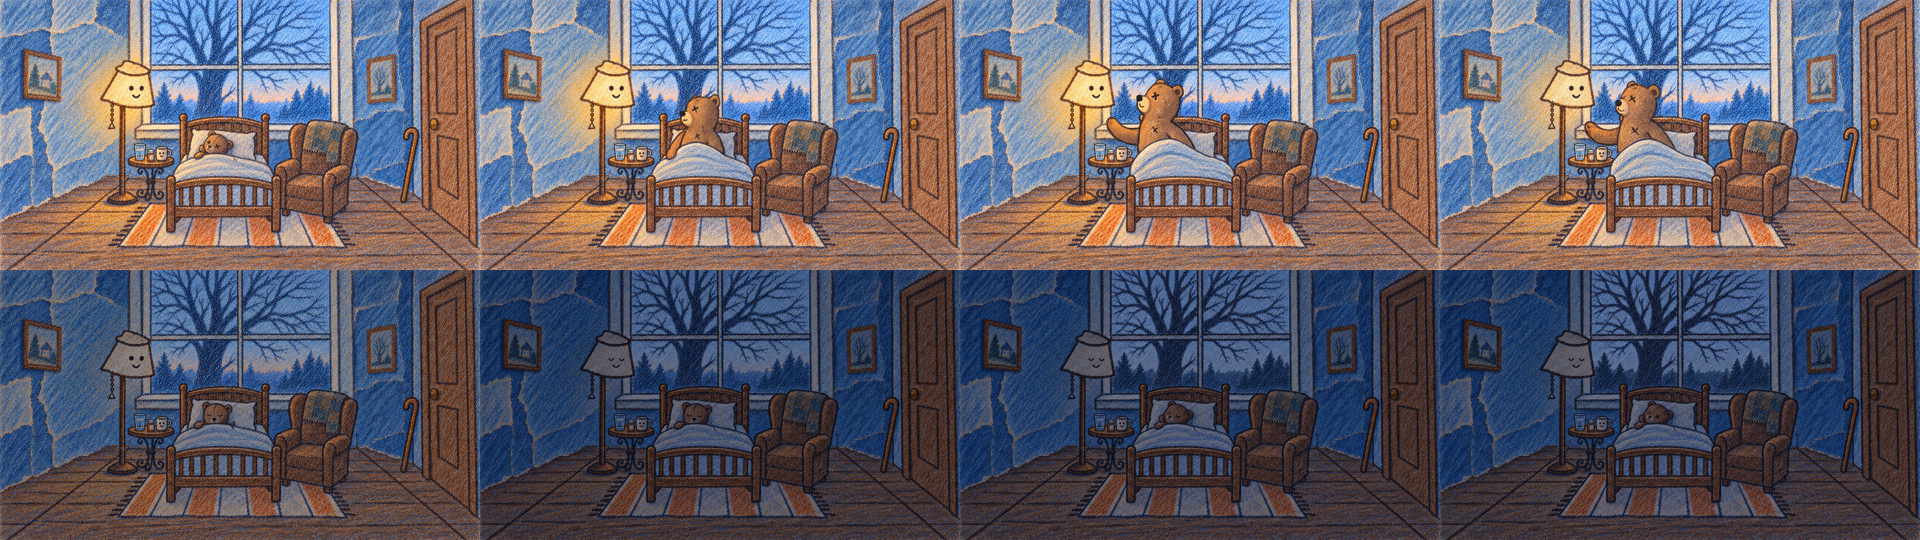
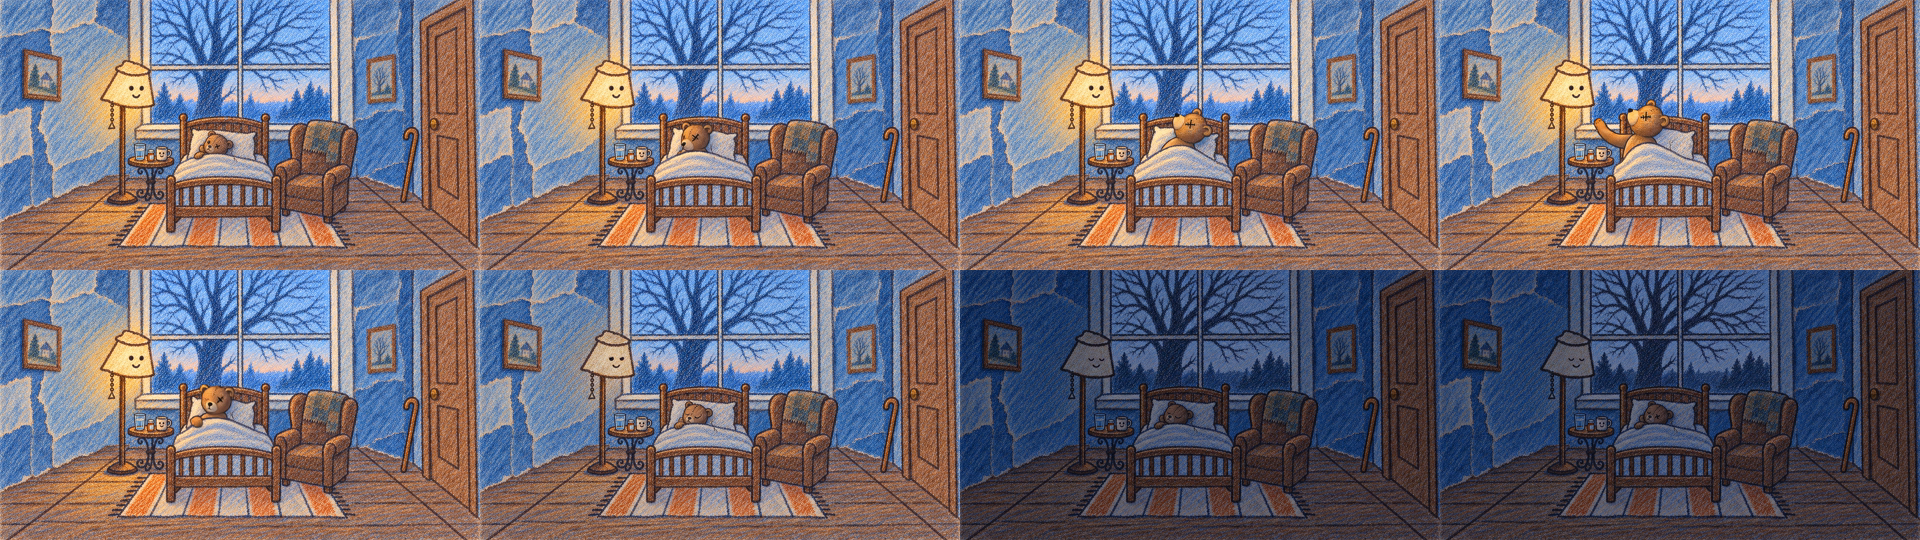
Revision brief v4 and stage specs v4

diff --git a/scripts/assemble_glued.py b/scripts/assemble_glued.py
@@ -1,0 +1,42 @@
+#!/usr/bin/env python3
+"""Join section clips into one 52 s track with glue. usage: assemble_glued.py DIR TAKE PAD.mp3 OUT.wav
+Glue: equal-power crossfades centred on each cut, a reverb tail from each outgoing clip that rings into the next section, one quiet continuous pad underneath."""
+import subprocess, sys, numpy as np, wave
+D,T,PAD,OUT=sys.argv[1:5]; SR=44100; rng=np.random.default_rng(7)
+B=[0,6,14,20,28,34,40,46,52]
+TARGET=[-26,-19,-19,-27,-15,-22,-26,-21]
+X=1.0; PADDB=-31; TAILDB=-7; RT=2.2
+def load(p):
+    r=subprocess.run(['ffmpeg','-v','error','-i',p,'-f','f32le','-ac','2','-ar',str(SR),'-'],capture_output=True,check=True).stdout
+    return np.frombuffer(r,dtype=np.float32).reshape(-1,2)
+def rms(c): return 20*np.log10(np.sqrt((c**2).mean())+1e-9)
+# reverb impulse: decaying noise, darkened
+n=int(RT*SR); t=np.arange(n)/SR
+ir=np.stack([rng.standard_normal(n)*np.exp(-t*6.9/RT) for _ in range(2)],1)
+for ch in range(2):
+    k=np.ones(8)/8; ir[:,ch]=np.convolve(ir[:,ch],k,'same')
+ir/=np.abs(ir).sum(0).max()
+def reverb(x):
+    L=len(x)+len(ir); N=1<<(L-1).bit_length()
+    return np.stack([np.fft.irfft(np.fft.rfft(x[:,c],N)*np.fft.rfft(ir[:,c],N),N)[:L] for c in range(2)],1).astype(np.float32)
+out=np.zeros((int((52+RT)*SR),2),dtype=np.float32)
+for i in range(8):
+    c=load(f'{D}/s{i+1}_{T}.mp3')
+    a=B[i]-(X/2 if i>0 else 0); b=B[i+1]+(X/2 if i<7 else 0)
+    c=c[:int((b-a)*SR)]; c=c*10**((TARGET[i]-rms(c))/20)
+    k=int(X*SR); env=np.ones(len(c),dtype=np.float32)
+    if i>0: env[:k]=np.sin(np.linspace(0,np.pi/2,k))
+    if i<7: env[-k:]=np.minimum(env[-k:],np.cos(np.linspace(0,np.pi/2,k)))
+    s=int(a*SR); out[s:s+len(c)]+=c*env[:,None]
+    if i<7:  # reverb tail of the outgoing clip's last 1.2 s rings on into the next section
+        seg=c[-int(1.2*SR):]*np.cos(np.linspace(0,np.pi/2,int(1.2*SR)))[:,None]
+        tail=reverb(seg); tail*=10**((rms(seg)+TAILDB-rms(tail))/20)
+        tail*=np.concatenate([np.ones(int(.2*SR)),np.cos(np.linspace(0,np.pi/2,len(tail)-int(.2*SR)))])[:,None]**2
+        e=s+len(c)-int(1.2*SR); out[e:e+len(tail)]+=tail[:len(out)-e]
+pad=load(PAD)[:int(52*SR)]; pad=pad*10**((PADDB-rms(pad))/20)
+fi=int(2*SR); pad[:fi]*=np.linspace(0,1,fi)[:,None]
+out[:len(pad)]+=pad
+out=out[:int(52*SR)]
+out/=max(1,np.abs(out).max()/0.95)
+w=wave.open(OUT,'wb');w.setnchannels(2);w.setsampwidth(2);w.setframerate(SR);w.writeframes((out*32767).astype('<i2').tobytes());w.close()
+print('wrote',OUT,len(out)/SR,'s')

diff --git a/scripts/assemble_sections.py b/scripts/assemble_sections.py
@@ -1,0 +1,23 @@
+#!/usr/bin/env python3
+"""Join per-section music clips into one 52 s track. usage: assemble_sections.py DIR TAKE OUT.wav  (clips DIR/s1_TAKE.mp3..s8)"""
+import subprocess, sys, numpy as np, wave
+D,T,OUT=sys.argv[1:4]; SR=44100
+B=[0,6,14,20,28,34,40,46,52]
+TARGET=[-26,-19,-19,-27,-15,-22,-26,-21]   # RMS dB per section: story arc
+X=1.0                                       # crossfade seconds, centred on each cut
+def load(p):
+    r=subprocess.run(['ffmpeg','-v','error','-i',p,'-f','f32le','-ac','2','-ar',str(SR),'-'],capture_output=True,check=True).stdout
+    return np.frombuffer(r,dtype=np.float32).reshape(-1,2)
+out=np.zeros((int(52*SR),2),dtype=np.float32)
+for i in range(8):
+    c=load(f'{D}/s{i+1}_{T}.mp3')
+    a=B[i]-(X/2 if i>0 else 0); b=B[i+1]+(X/2 if i<7 else 0)
+    n=int((b-a)*SR); c=c[:n]
+    rms=20*np.log10(np.sqrt((c**2).mean())+1e-9); c=c*10**((TARGET[i]-rms)/20)
+    env=np.ones(len(c),dtype=np.float32); k=int(X*SR)
+    if i>0: env[:k]=np.linspace(0,1,k)
+    if i<7: env[-k:]=np.minimum(env[-k:],np.linspace(1,0,k))
+    s=int(a*SR); out[s:s+len(c)]+=c*env[:,None]
+out/=max(1,np.abs(out).max()/0.95)
+w=wave.open(OUT,'wb');w.setnchannels(2);w.setsampwidth(2);w.setframerate(SR);w.writeframes((out*32767).astype('<i2').tobytes());w.close()
+print('wrote',OUT,len(out)/SR,'s')

diff --git a/scripts/el_music_plan.py b/scripts/el_music_plan.py
@@ -1,0 +1,9 @@
+#!/usr/bin/env python3
+"""ElevenLabs music from any composition plan. usage: el_music_plan.py PLAN.json OUT.mp3 [seed]. Key from .env.local, never printed."""
+import json, sys, urllib.request, urllib.error
+key=[l.split('=',1)[1].strip() for l in open('.env.local') if l.startswith('ELEVENLABS_API_KEY=')][0]
+body={'composition_plan':json.load(open(sys.argv[1])),'model_id':'music_v2_5'}
+if len(sys.argv)>3: body['seed']=int(sys.argv[3])
+r=urllib.request.Request('https://api.elevenlabs.io/v1/music?output_format=mp3_44100_192',data=json.dumps(body).encode(),headers={'xi-api-key':key,'Content-Type':'application/json'})
+try: open(sys.argv[2],'wb').write(urllib.request.urlopen(r,timeout=300).read()); print('saved',sys.argv[2])
+except urllib.error.HTTPError as e: print('HTTP',e.code,e.read().decode()[:600])

diff --git a/docs/stage_specs_v4.md b/docs/stage_specs_v4.md
@@ -1,0 +1,26 @@
+# Stage specs v4 (continuity pass; `docs/revision_brief_v4.md`)
+Read `docs/stage_specs_v2.md` first (soft look wording, motion rules, recipe, file and cost rules) and `docs/stage_specs_v3.md` (cast reminders). Same recipe and rules (standard Veo `--model std`, `scripts/el_do.py` only, foreground commands with timeout 600000, no background jobs/monitors/timers, never print or open the key or `.env.local`, no git, create only your own files, silent, at most one clip re-run, look at every still and contact sheet).
+
+## Fixed references (use them in every still prompt and say "same as the reference")
+- **The armchair (recurring):** exactly as in `stills/s05_v2_start.jpg`: a warm rust-orange rounded armchair with a small cushion and a throw, at the **right front corner of the room**, angled toward the window, between the rug's right edge and the door wall. It appears in every stage except stage 4 and must not change design, size or place. In stage 6 and the ending it is the same chair (a bit more worn only through a small patch).
+- **The bear:** exactly the clean brown teddy bear in `stills/s01_v3_end.jpg` (round head, round ears, button eyes, plump belly with a lighter patch, thin limbs). **Same size relative to the cradle, bed and armchair in every frame; never enlarge or shrink it.** The old bear in stage 6 and the ending is the same bear with a few patches, a stitched seam and faded fur (see `stills/s06_v4_start.jpg`), the same body shape and size.
+- No confetti, sparkles, dust specks, floating particles or glow dots anywhere (stage 1 especially). Lamp: two plain black dot eyes, straight rigid pole, no floating effects.
+- Frame-matching: write in the clip prompt that the first and last frames equal your start and end stills.
+
+## Stage 1 (`s01_v4`, 8 s)
+Start: edit `stills/s01_v3_start.jpg` (cold room, lamp asleep, door closed, bear on the sill, cradle at the centre): add the armchair in the right front corner. End: edit `stills/s01_v3_end.jpg` (door open with warm light, lamp awake, bear at the cradle leaning in, sill empty): add the same armchair in the same place. Motion: as in the v3 clip (door opens and stays open; lamp wakes and glows, rigid) but **no dust or sparkles at all**; the bear climbs down carefully from the sill and goes **straight** to the cradle by the shortest path, leans on the rim and peeks inside, then holds still. Nothing after that.
+
+## Stage 2 (`s02_v4`, 8 s)
+Start: edit `stills/s02_v3_start.jpg`: add the armchair in the right front corner (keep the ball's rolling path to the doorway clear). End: edit `stills/s02_v3_end.jpg`: add the same armchair, still no ball in the room. Motion as the v3 clip (lamp hops left to right as one rigid piece; the ball rolls out of the open doorway and never returns), **but the bear's entry into the bed is one continuous soft movement**: it climbs down from the sill to the headboard, eases over the bed rail and sinks gently into the mattress, settling against the pillow with a little weight, the blanket draping softly over its legs; both button eyes normal, no wink.
+
+## Stage 3 (`s03_v4`, 6 s)
+Start: edit `stills/s03_v2_start.jpg`: add the armchair in the right front corner. End: edit `stills/s03_v2_end.jpg`: add the same armchair. Motion as the v3 clip (teen room, rain, door ajar then slams shut, posters flutter) but the **lamp's animation is simple and smooth**: it stands upright with a straight pole, its two black dots slide in a sulky eye-roll, after the slam its dots droop and **two soft blue teardrops (muted blue) roll straight down from under the shade and fade**; no floating dots, no tilting, no distortion, no other effects around it.
+
+## Stage 4 (`s04_v4`, 8 s) , NO armchair
+Start: edit `stills/s04_v2_start.jpg` (empty room, bear in the middle of the rug watching the open door): the window already shows **a tiny dark silhouette of a person walking away along a snowy path** (visible from the first frame). End: `stills/s04_v2_end.jpg` (bear on the sill looking out, door closed, the silhouette even farther away and smaller). Use the prompt `docs/prompts/s04_v2_clip.txt` as the base: change only that the **figure is visible from the start of the clip and keeps walking farther away** during the whole clip; keep everything else exactly (door closes slowly, pause, the bear turns, climbs to the window, watches).
+
+## Stage 6 (`s06_v5`, 8 s)
+Start: use `stills/s06_v4_start.jpg` (old patched bear seated in the armchair, whole body visible, half-open door, leaves outside); fix only if the armchair differs from the fixed reference or the bear is the wrong size. End: edit the start frame so that **the old bear stands on the window sill, seen from behind or in profile, looking out of the window** at the autumn sunset; the armchair now empty, in the same place. Motion (one smooth, calm, slow sequence, no teleporting): the bear sits tired for a moment; slowly stands up on the seat; climbs down off the chair; walks slowly across the floor past the bed's foot to the wall under the window; climbs up onto the sill using the bed's headboard; stands and looks out. Leaves fall only outside the glass. The half-open door, lamp and furniture stay still. The bear never changes size.
+
+## Ending / Stage 7 (`s7_v4`, two 8 s clips A and B sharing one frame E, 16 s)
+Frame E: edit `stills/s78_v3_E.jpg`: old-age room, narrow bed with rails centred, **the same armchair in the right front corner (not beside the bed)**, side table with glass, pills and mug, cane by the door, lamp near the bed, **the old bear lying on the pillow, same size as it was when standing**, blanket draped naturally over its body, head turned toward the lamp. Frame S: edit `stills/s78_v3_S.jpg` the same way (old bear standing at the foot of the bed, pillow empty, same armchair in the right front corner). Clip A (S to E): the bear climbs up the bed rail slowly, eases onto the mattress, turns and settles down into the pillow in one soft, weighty movement; **the blanket drapes and shifts naturally with its body, never lifting or floating, and the bear does not pull it mechanically**; lamp rigid; armchair still. Clip B (E to a dark end frame): the bear, **staying the same size and lying down**, gently stretches one arm toward the lamp in a small affectionate goodnight, holds for a moment, lowers its arm, its eyes slowly close and it falls asleep, the blanket rising and falling slowly; the lamp dims and goes out; the room fades smoothly to dark blue-grey, no sparkles. Dark frame: edit `stills/s78_v3_dark.jpg` for the new armchair position. Cap 45,000 credits.

diff --git a/docs/log.md b/docs/log.md
@@ -239,3 +239,15 @@ Newest entries at the bottom. Times are CET on Nov 5, 2026. Each entry says what
 - Stage 1 v3 (bear climbs down and looks into the crib, clean), Stage 2 v3 (ball rolls out the door and does not return; bear in bed, no wink; lamp pole still bends), Stage 3 (v2 clip with blue tears via `scripts/blue_tears.py`), Stage 4 and 5 unchanged from v2, Stage 6 v4 (old patched bear, fully visible, leaves only outside; it rises slowly, climbs down the chair side and ends at the bed, not beside the chair as planned; accepted as a lead-in to the ending), Ending v3 (two 8 s clips sharing one frame: the old bear climbs onto the bed and settles; then sits up, reaches toward the lamp, the lamp goes out and the room fades). Known flaw: the bear looks too large when it sits up in the ending's second clip.
 - Joined by hard cuts: `exports/film_v3_silent.mp4`, 1920x1080, 24 fps, 60.000 s, silent. Earlier versions kept (`film_v2_silent.mp4`, `film_B_all8_silent.mp4`).
 - Balance $N of 610,000 (counter lags).
+
+### 21:46 · Music v3: section-by-section composition plan for the 52 s film
+- Team feedback: take 4 of the one-song versions is best but does not change enough per 6 s section. Wrote `audio/music_plan_v3_52s.json` (8 chunks, 6/8/6/8/6/6/6/6 s, each tied to what happens on screen; shared motif, key and pulse) and `scripts/el_music_plan.py` (like `el_music.py`, takes the plan path). Three seeds via the ElevenLabs API: `audio/jazz3/plan_seed11|22|33.mp3`, muxed to `exports/film_v2_plan_seed11|22|33.mp4`. Not listened to. Measured: seed22 has the widest swings (33 dB) but S5 is quieter than S2 and the last 6 s fade to -50 dB; seeds 11 and 33 are flatter (8 dB). Nothing committed.
+
+### 21:55 · Music v4: eight distinct genres, one per stage (gateway, Music v2.5)
+- Team: the plan versions were not distinct enough. Re-read the story's emotional journey (Birth, Playfulness, Rebellion, Separation, Family, Silence, Old age, Goodbye) and generated each stage as its own clip with its own genre: celesta lullaby, ragtime/dixieland, A-minor jazz-blues with a slam, lonely trumpet ballad, 3/4 jazz waltz, hushed bossa, fragile solo piano, jazz-funeral hymn turning warm. Two takes each (`audio/jazz4/s1..s8_a|b.mp3`). `scripts/assemble_sections.py` places each at its cut with 1 s crossfades centred on the cut and sets each section's RMS to a story arc (quietest S1/S4/S7, loudest S5). Outputs `audio/jazz4/arc_a|b.wav`, `exports/film_v2_distinct_a|b.mp4`. Not listened to. No fade-out added to the end. Cost about $0.2. Nothing committed.
+
+### 21:58 · Music v4 glued: smoother seams between sections
+- Team: version B best, but the mix between sections is bad. `scripts/assemble_glued.py` rebuilds B with equal-power crossfades, a reverb tail from each outgoing clip ringing into the next section, and one quiet continuous C-major pad (`audio/jazz4/pad_a.mp3`, generated once) under the whole film. Output `audio/jazz4/arc_b_glued.wav`, `exports/film_v2_distinct_b_glued.mp4`. Not listened to. Nothing committed.
+
+### 21:57 · Revision brief v4 (continuity pass) received
+- Saved as `docs/revision_brief_v4.md`, specs `docs/stage_specs_v4.md`: one recurring armchair (the stage 5 design, right front corner, in every stage except 4); the same bear everywhere at the same size; no confetti or sparkles; stage 1 simplified (bear climbs down, goes straight to the crib, peeks in); stage 2 softer bed entry; stage 3 simple lamp and soft blue tears generated directly; stage 4 the departing figure visible from the start; stage 5 unchanged; stage 6 the old bear walks from the armchair to the window; stage 7 consistent bear size, natural blanket, the goodnight reach, falling asleep. Smoother transitions: short dissolves added in the edit.

diff --git a/docs/revision_brief_v4.md b/docs/revision_brief_v4.md
@@ -1,0 +1,9 @@
+# Team revision brief v4 (pasted by the team, 2026-11-05 ~21:45): continuity pass
+Global: one continuous evolving story; smoother transitions between scenes (no abrupt composition jumps; time passes in the same room); **the same teddy bear everywhere** (same design, size, proportions, head-to-body ratio; only fabric wear, patches and fading change with age; never resize); **one recurring armchair in a room corner, identical every time, present in every scene except Scene 4**.
+- Scene 1: add the armchair; remove ALL confetti, sparkles and floating particles; the bear only: starts at the window, climbs down carefully, goes straight to the crib, leans in and peeks inside; no wandering, nothing after.
+- Scene 2: keep; the bear enters the bed in one smooth, soft, weighty movement; add the same armchair.
+- Scene 3: keep; remove strange floating or distorted effects around the lamp, simple smooth intentional lamp animation; add the same armchair.
+- Scene 4: unchanged except the departing figure becomes visible in the window earlier; no armchair here.
+- Scene 5: unchanged (armchair stays part of the room).
+- Scene 6: the same bear, a bit more worn with a few patches (same size and shape); starts seated in the armchair, gets up and walks to the window in one smooth calm slower movement, stops and looks outside; leaves fall only outside; room layout unchanged.
+- Scene 7: the bear's size never changes (it must not grow when it reaches toward the lamp); a natural, delicate blanket interaction (no mechanical pulling, no floating blanket); keep the small affectionate arm-reach toward the lamp as a goodnight; then it settles and falls asleep, peaceful.
